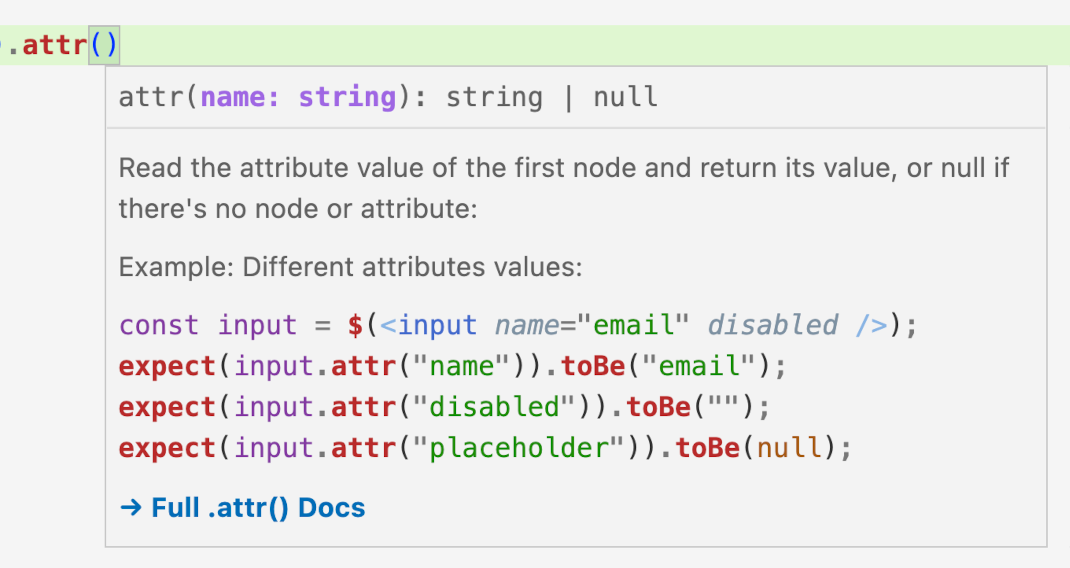
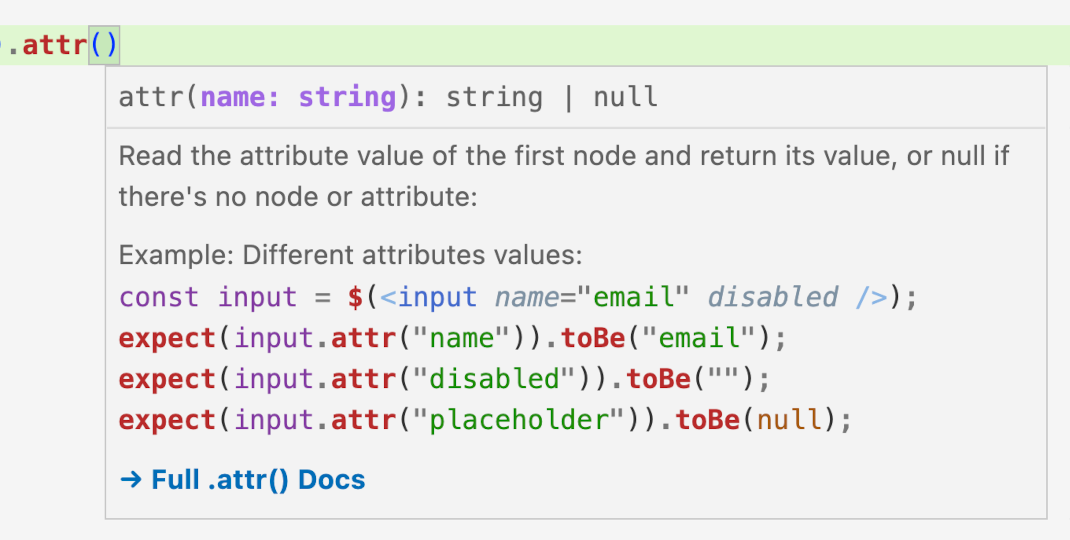
Splash image

diff --git a/assets/home.html b/assets/home.html
@@ -303,7 +303,7 @@ it(&quot;waits for a DOM change&quot;, async () =&gt; {
     </div>
   </div>
   <div>
-    <img class="splash" width="535" height="284" src="https://raw.githubusercontent.com/franciscop/react-test/master/assets/autocomplete.webp" />
+    <img class="splash" width="535" height="270" src="https://raw.githubusercontent.com/franciscop/react-test/master/assets/autocomplete.webp" />
   </div>
 </section>
 
